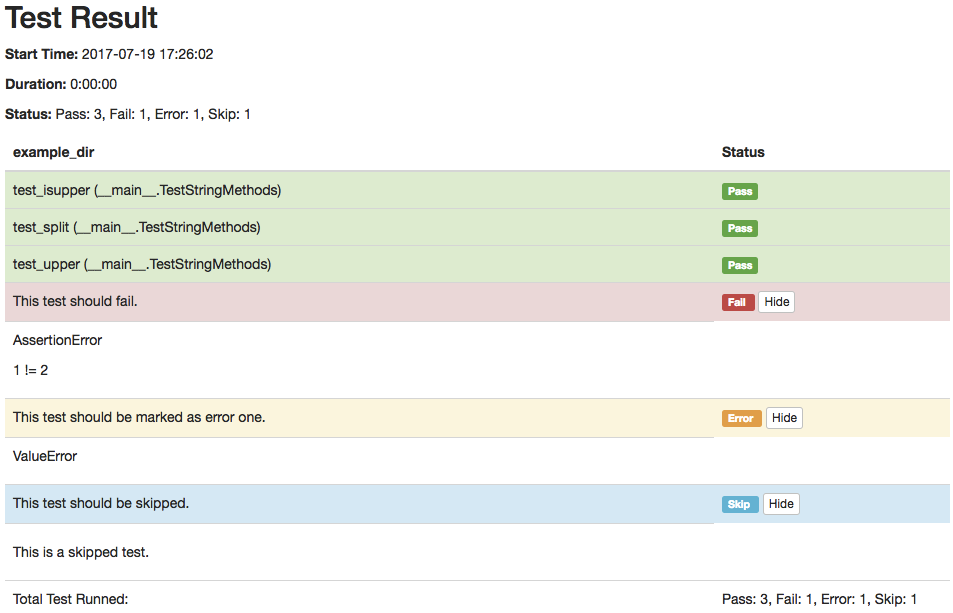
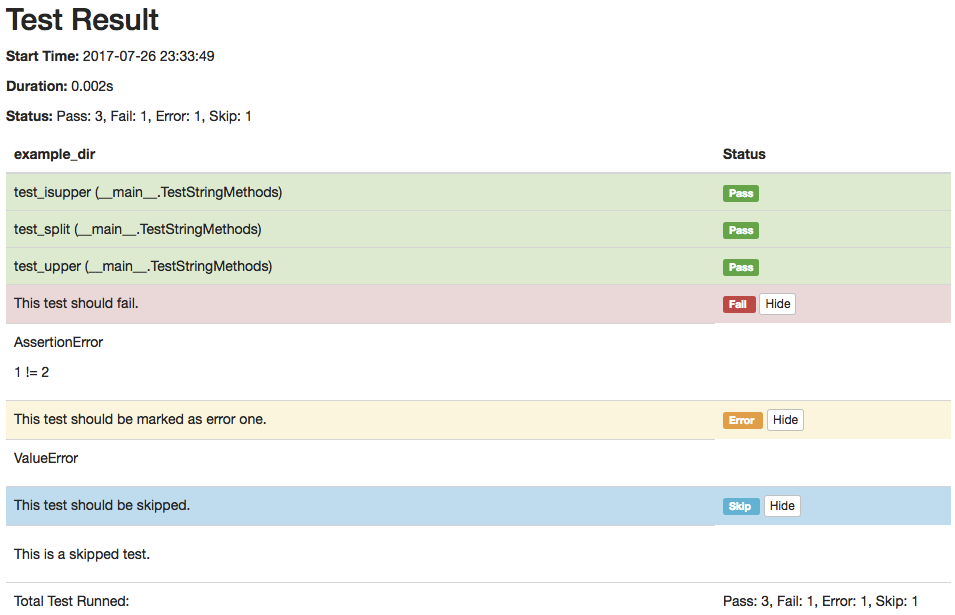
update README

diff --git a/README.md b/README.md
@@ -52,7 +52,20 @@ if __name__ == '__main__':
     unittest.main(testRunner=PyUnitReport.HTMLTestRunner(output='example_dir'))
 ```
 
-Just import `PyUnitReport` from package, then pass it to `unittest.main` with the `testRunner` keyword. This class have only one required parameter, with is `output` this is use to place the report of the TestCase, this is saved under a `reports` directory.
+In most cases, you can use `PyUnitReport` with `unittest.main`, just pass it with the `testRunner` keyword.
+
+For `HTMLTestRunner`, the only parameter you must pass in is `output`, which specifies the directory of your generated report. Also, if you want to specify the report name, you can use the `report_name` parameter, otherwise the report name will be the datetime you run test. And if you want to run testcases in `failfast` mode, you can pass in a `failfast` parameter and assign it to be True.
+
+Here is another way to run the testcases.
+
+```python
+kwargs = {
+    "output": output_folder_name,
+    "report_name": report_name,
+    "failfast": True
+}
+result = PyUnitReport.HTMLTestRunner(**kwargs).run(task_suite)
+```
 
 ### testsuite
 
@@ -70,9 +83,12 @@ example_tests = TestLoader().loadTestsFromTestCase(ExampleTests)
 example2_tests = TestLoader().loadTestsFromTestCase(Example2Test)
 
 suite = TestSuite([example_tests, example2_tests])
-
-runner = HTMLTestRunner(output='example_suite')
-
+kwargs = {
+    "output": output_folder_name,
+    "report_name": report_name,
+    "failfast": True
+}
+runner = HTMLTestRunner(**kwargs)
 runner.run(suite)
 ```
 
@@ -84,17 +100,18 @@ This is an example of what you got in the console.
 
 ```text
 $ python examples/testcase.py
+
 Running tests...
 ----------------------------------------------------------------------
- This test should be marked as error one. ... ERROR (0.000596)s
- This test should fail. ... FAIL (0.000616)s
- test_isupper (__main__.TestStringMethods) ... OK (0.000109)s
- This test should be skipped. ... SKIP (0.000064)s
- test_split (__main__.TestStringMethods) ... OK (0.000178)s
- test_upper (__main__.TestStringMethods) ... OK (0.000153)s
+ This test should be marked as error one. ... ERROR (0.000575)s
+ This test should fail. ... FAIL (0.000564)s
+ test_isupper (__main__.TestStringMethods) ... OK (0.000149)s
+ This test should be skipped. ... SKIP (0.000067)s
+ test_split (__main__.TestStringMethods) ... OK (0.000167)s
+ test_upper (__main__.TestStringMethods) ... OK (0.000134)s
 
 ======================================================================
-ERROR [0.000596s]: This test should be marked as error one.
+ERROR [0.000575s]: This test should be marked as error one.
 ----------------------------------------------------------------------
 Traceback (most recent call last):
   File "examples/testcase.py", line 23, in test_error
@@ -102,7 +119,7 @@ Traceback (most recent call last):
 ValueError
 
 ======================================================================
-FAIL [0.000616s]: This test should fail.
+FAIL [0.000564s]: This test should fail.
 ----------------------------------------------------------------------
 Traceback (most recent call last):
   File "examples/testcase.py", line 27, in test_fail
@@ -110,14 +127,14 @@ Traceback (most recent call last):
 AssertionError: 1 != 2
 
 ----------------------------------------------------------------------
-Ran 6 tests in 0:00:00
+Ran 6 tests in 0.002s
 
 FAILED
  (Failures=1, Errors=1, Skipped=1)
 
 Generating HTML reports...
 Template is not specified, load default template instead.
-Reports generated: /Users/Leo/MyProjects/ApiTestEngine/src/pyunitreport/reports/example_dir/2017-07-19-17-26-02.html
+Reports generated: /Users/Leo/MyProjects/ApiTestEngine/src/pyunitreport/reports/example_dir/2017-07-26-23-33-49.html
 ```
 
 ### Html Output
